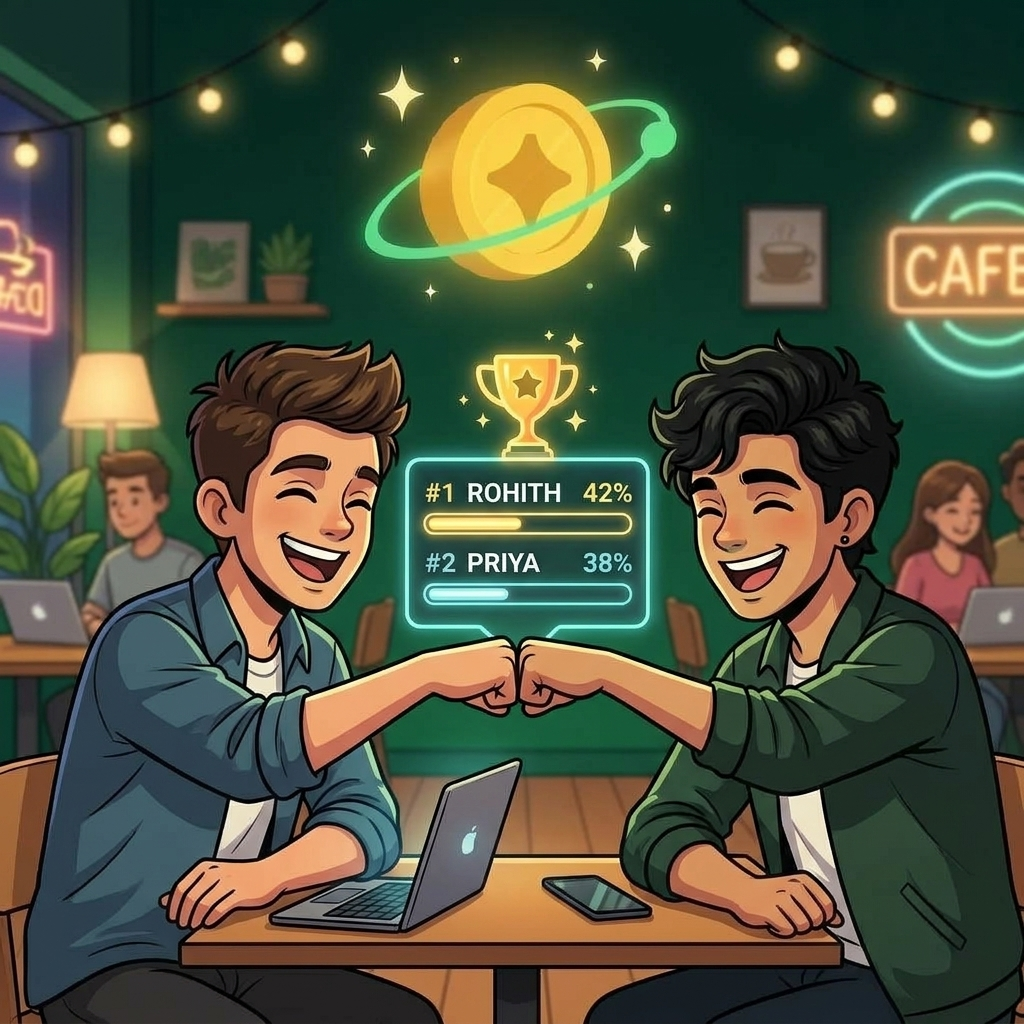
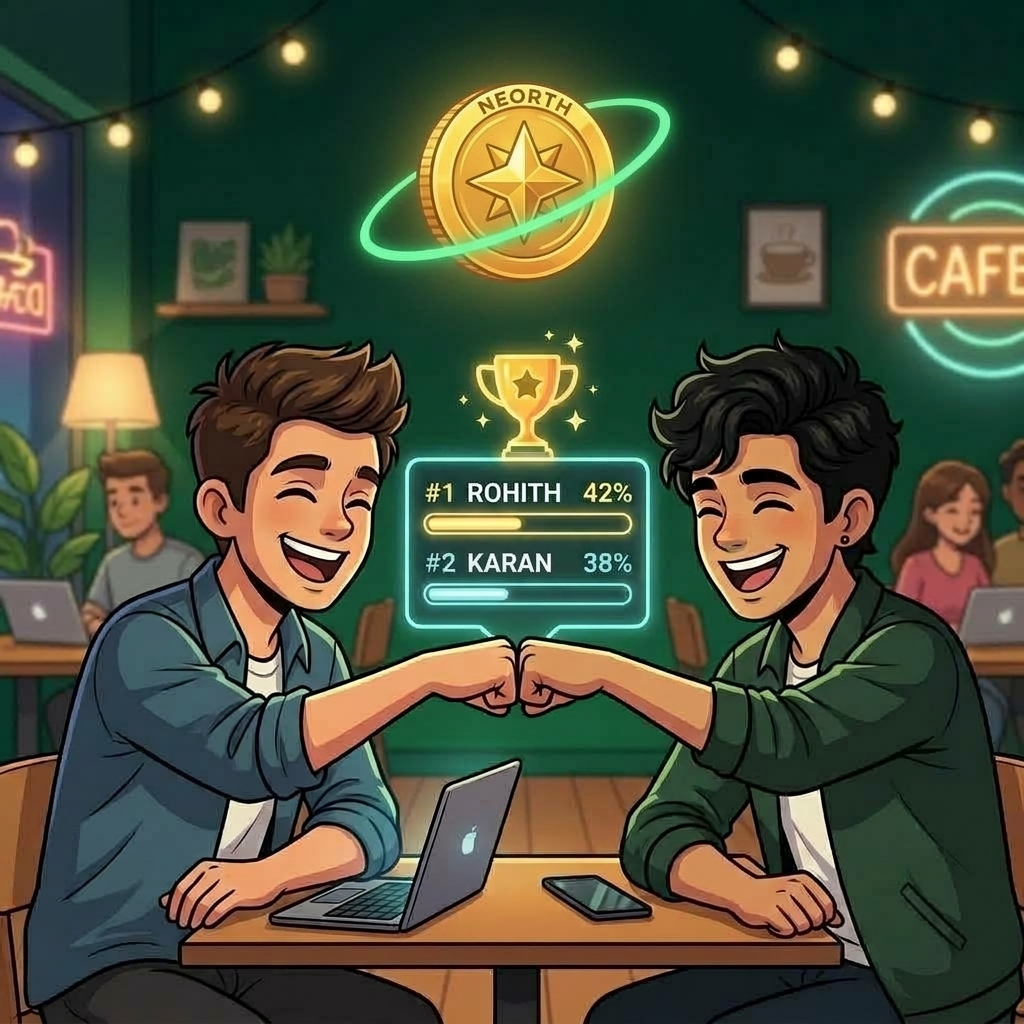
feat: replace Priya with Karan, add Payments & Merits tab, and simplify 4 pillars to 1 title and 1 subtitle

Changed region(s): [[0.3438, 0.0312, 0.6875, 0.3125], [0.4375, 0.5312, 0.5625, 0.5625]]

diff --git a/src/components/AppSimulator.jsx b/src/components/AppSimulator.jsx
@@ -2,12 +2,12 @@ import React, { useState } from 'react';
 import confetti from 'canvas-confetti';
 import { 
   TrendingUp, ShieldCheck, Flame, Users, CheckCircle2, 
-  Sparkles, Check, AlertCircle, ArrowUpRight, Trophy, Camera, Heart, MessageCircle, ArrowRight
+  Sparkles, Check, AlertCircle, ArrowUpRight, Trophy, Camera, Heart, MessageCircle, ArrowRight, Coins, Lock, Unlock
 } from 'lucide-react';
 import NeorthLogo from './NeorthLogo';
 
 export function AppSimulator({ onOpenWaitlist }) {
-  const [activeTab, setActiveTab] = useState('networth'); // networth, rituals, goals, leaderboard, proofs
+  const [activeTab, setActiveTab] = useState('networth'); // networth, rituals, goals, leaderboard, proofs, payments
 
   // Bank Aggregator Sync State
   const [syncedBanks, setSyncedBanks] = useState({
@@ -69,6 +69,9 @@ export function AppSimulator({ onOpenWaitlist }) {
   const [cheerCount, setCheerCount] = useState(24);
   const [hasCheered, setHasCheered] = useState(false);
 
+  // Payments & Merits Conversion State
+  const [meritsConverted, setMeritsConverted] = useState(false);
+
   const handleCheer = () => {
     if (!hasCheered) {
       setCheerCount((c) => c + 1);
@@ -129,7 +132,7 @@ export function AppSimulator({ onOpenWaitlist }) {
       title: 'Compete on % Completed — Not Balance',
       tagline: 'Inner circle friendly rivalry where daily consistency and % completion climb to #1.',
       statLabel: 'Bangalore Founders Circle',
-      statValue: '#1 Rohith (42%) vs #2 Priya (38%)',
+      statValue: '#1 Rohith (42%) vs #2 Karan (38%)',
       statusPill: 'Fair Playing Field for All',
     },
     proofs: {
@@ -141,6 +144,16 @@ export function AppSimulator({ onOpenWaitlist }) {
       statLabel: 'Milestone Verified & Posted',
       statValue: '40% of 1 Crore Achieved 🏆',
       statusPill: 'Car Keys in Hand • Group Cheers',
+    },
+    payments: {
+      image: '/anim-proof.jpg',
+      badge: '6. ACCOUNTABILITY & MERITS',
+      badgeColor: 'gold',
+      title: 'Pay to Stay Accountable • Succeed to Convert',
+      tagline: 'You set your goals and pay a subscription while working toward them. The faster you achieve your goals, the better. Once achieved, 100% of your subscription money converts into Merits!',
+      statLabel: 'Accountability Conversion Vault',
+      statValue: meritsConverted ? '11,988 Merits Active 🏆' : '₹11,988 In Vault (Pending Goal)',
+      statusPill: meritsConverted ? '100% Value Returned' : 'Active Goal Conversion',
     },
   };
 
@@ -159,7 +172,7 @@ export function AppSimulator({ onOpenWaitlist }) {
           Inside <span className="gradient-text-emerald">NEORTH</span>
         </h2>
         <p className="text-[var(--text-secondary)] max-w-2xl mx-auto text-xs sm:text-sm px-2">
-          Toggle each screen to experience daily wealth building, bank-synced goals, and healthy inner-circle competition.
+          Toggle each screen to experience daily wealth building, bank-synced goals, healthy competition, and accountability subscriptions that convert into Merits.
         </p>
       </div>
 
@@ -226,6 +239,18 @@ export function AppSimulator({ onOpenWaitlist }) {
           >
             <Camera size={14} />
             <span>5. Milestone Proofs</span>
+          </button>
+
+          <button
+            onClick={() => setActiveTab('payments')}
+            className={`flex items-center gap-1.5 px-3 py-1.5 sm:px-4 sm:py-2 rounded-full text-[11px] sm:text-xs md:text-sm font-semibold whitespace-nowrap transition-all ${
+              activeTab === 'payments'
+                ? 'bg-gradient-to-r from-amber-400 to-[var(--gold-primary)] text-black font-bold shadow-md shadow-amber-500/20'
+                : 'bg-[rgba(16,45,32,0.5)] text-[var(--text-secondary)] hover:text-white'
+            }`}
+          >
+            <Coins size={14} />
+            <span>6. Payments &amp; Merits</span>
           </button>
         </div>
 
@@ -497,9 +522,9 @@ export function AppSimulator({ onOpenWaitlist }) {
                   <div className="p-2 bg-black/40 rounded-xl border border-emerald-500/40 flex items-center justify-between">
                     <div className="flex items-center gap-2">
                       <div className="w-6 h-6 rounded-full bg-emerald-500/20 text-emerald-300 font-bold flex items-center justify-center text-[10px]">
-                        PK
+                        KM
                       </div>
-                      <div className="text-xs font-bold text-white">Priya K. • ₹25L Target</div>
+                      <div className="text-xs font-bold text-white">Karan M. • ₹25L Target</div>
                     </div>
                     <span className="px-2 py-0.5 rounded-full text-[9px] font-bold bg-emerald-500/20 text-[var(--emerald-glow)] border border-emerald-500/40 flex items-center gap-0.5">
                       <Check size={10} /> Verified (GREEN)
@@ -529,6 +554,7 @@ export function AppSimulator({ onOpenWaitlist }) {
                   <span className="text-[var(--gold-glow)]">Ranked by % Completed</span>
                 </div>
 
+                {/* #1 Rohith */}
                 <div className="p-2.5 bg-gradient-to-r from-emerald-950/70 to-black rounded-xl border-2 border-[var(--emerald-glow)]">
                   <div className="flex items-center justify-between mb-1">
                     <div className="flex items-center gap-2">
@@ -559,13 +585,14 @@ export function AppSimulator({ onOpenWaitlist }) {
                   </div>
                 </div>
 
+                {/* #2 Karan (Updated with guy's name) */}
                 <div className="p-2 bg-black/40 rounded-xl border border-gray-800">
                   <div className="flex items-center justify-between mb-1">
                     <div className="flex items-center gap-2">
                       <div className="w-5 h-5 rounded-full bg-gray-800 text-gray-300 font-bold flex items-center justify-center text-[9px]">
                         #2
                       </div>
-                      <div className="text-xs font-bold text-white">Priya K. (₹50L Goal)</div>
+                      <div className="text-xs font-bold text-white">Karan M. (₹50L Goal)</div>
                     </div>
                     <div className="text-xs font-bold text-white font-mono">38%</div>
                   </div>
@@ -574,6 +601,7 @@ export function AppSimulator({ onOpenWaitlist }) {
                   </div>
                 </div>
 
+                {/* #3 Arjun */}
                 <div className="p-2 bg-black/40 rounded-xl border border-gray-800">
                   <div className="flex items-center justify-between mb-1">
                     <div className="flex items-center gap-2">
@@ -589,6 +617,7 @@ export function AppSimulator({ onOpenWaitlist }) {
                   </div>
                 </div>
 
+                {/* #4 Vikram */}
                 <div className="p-2 bg-black/40 rounded-xl border border-gray-800">
                   <div className="flex items-center justify-between mb-1">
                     <div className="flex items-center gap-2">
@@ -669,6 +698,94 @@ export function AppSimulator({ onOpenWaitlist }) {
               </div>
             )}
 
+            {/* TAB 6 CONTENT: PAYMENTS & ACCOUNTABILITY MERITS */}
+            {activeTab === 'payments' && (
+              <div className="space-y-2.5 animate-fadeIn">
+                {/* Active Goal Subscription Box */}
+                <div className="bg-gradient-to-br from-[#0c3324] to-[#062016] border border-[rgba(52,211,153,0.3)] rounded-xl p-3 shadow-md relative overflow-hidden">
+                  <div className="flex items-center justify-between text-[10px] text-[var(--text-secondary)] mb-1">
+                    <span className="font-semibold uppercase tracking-wider">Goal Accountability Vault</span>
+                    <span className="text-[var(--emerald-glow)] font-mono font-bold">₹999 / month</span>
+                  </div>
+
+                  <div className="text-xs sm:text-sm font-black text-white mb-0.5">
+                    Target: ₹1 Crore Wealth Fund
+                  </div>
+                  <div className="text-[10px] text-[var(--text-secondary)] mb-2">
+                    Total Deposited While Working on Goal: <strong className="text-white font-mono">₹11,988</strong> (Month 12 Active)
+                  </div>
+
+                  {/* Vault Status Box */}
+                  <div className={`p-2.5 rounded-lg border transition-all ${
+                    meritsConverted 
+                      ? 'bg-amber-500/20 border-amber-400 text-amber-200' 
+                      : 'bg-black/50 border-emerald-500/30 text-white'
+                  }`}>
+                    <div className="flex items-center justify-between text-xs font-mono font-bold mb-0.5">
+                      <span className="flex items-center gap-1.5">
+                        {meritsConverted ? <Unlock size={13} className="text-amber-300" /> : <Lock size={13} className="text-[var(--emerald-glow)]" />}
+                        {meritsConverted ? '11,988 MERITS UNLOCKED & ACTIVE' : '11,988 MERITS LOCKED IN VAULT'}
+                      </span>
+                      <span className="text-[10px] text-[var(--emerald-glow)]">{meritsConverted ? '100% Converted ✓' : 'Pending Goal'}</span>
+                    </div>
+                    <div className="text-[9px] text-[var(--text-secondary)] leading-tight">
+                      {meritsConverted 
+                        ? 'Goal Achieved! 100% of your ₹11,988 subscription money has been converted into Merits.' 
+                        : 'The faster you achieve your goals, the better. Once achieved, 100% of your subscription is converted into Merits!'}
+                    </div>
+                  </div>
+                </div>
+
+                {/* Conversion Trigger Button */}
+                <button
+                  onClick={() => {
+                    setMeritsConverted(true);
+                    confetti({ particleCount: 100, spread: 80, origin: { y: 0.6 } });
+                  }}
+                  className={`w-full text-xs py-2 px-3 rounded-xl font-bold flex items-center justify-center gap-1.5 transition-all ${
+                    meritsConverted
+                      ? 'bg-amber-400 text-black shadow-lg shadow-amber-400/20'
+                      : 'btn-primary'
+                  }`}
+                >
+                  <Sparkles size={13} />
+                  <span>{meritsConverted ? '✓ 11,988 Merits Converted & Active in Wallet!' : 'Simulate Goal Achievement & Convert to Merits'}</span>
+                </button>
+
+                {/* Where to spend Merits */}
+                <div className="space-y-1">
+                  <div className="text-[9px] font-semibold text-[var(--text-secondary)] uppercase tracking-wider flex items-center justify-between">
+                    <span>Spend Merits Inside NEORTH:</span>
+                    <span className="text-[var(--gold-light)] font-mono">{meritsConverted ? '11,988 M Available' : 'Locked until Goal'}</span>
+                  </div>
+
+                  <div className="grid grid-cols-2 gap-1.5 text-[9px] font-mono">
+                    <div className="p-1.5 bg-black/40 rounded-lg border border-gray-800 flex items-center justify-between">
+                      <span className="text-white truncate">Bangalore Founders</span>
+                      <span className="text-[var(--gold-light)] font-bold">3,000 M</span>
+                    </div>
+                    <div className="p-1.5 bg-black/40 rounded-lg border border-gray-800 flex items-center justify-between">
+                      <span className="text-white truncate">90-Day Sprint Entry</span>
+                      <span className="text-[var(--gold-light)] font-bold">2,500 M</span>
+                    </div>
+                    <div className="p-1.5 bg-black/40 rounded-lg border border-gray-800 flex items-center justify-between">
+                      <span className="text-white truncate">VIP IRL Hangouts</span>
+                      <span className="text-[var(--gold-light)] font-bold">5,000 M</span>
+                    </div>
+                    <div className="p-1.5 bg-black/40 rounded-lg border border-gray-800 flex items-center justify-between">
+                      <span className="text-white truncate">AI Mentor Strategy</span>
+                      <span className="text-[var(--gold-light)] font-bold">1,488 M</span>
+                    </div>
+                  </div>
+                </div>
+
+                {/* Core Philosophy Quote */}
+                <div className="p-2 bg-[rgba(6,21,14,0.9)] border border-amber-500/25 rounded-xl text-[10px] text-[var(--text-secondary)] italic leading-tight">
+                  "The idea is simple: you pay to stay accountable, take daily action, and improve your life—and when you succeed, you get value back through Merits."
+                </div>
+              </div>
+            )}
+
             {/* Bottom Interactive CTA */}
             <div className="pt-2 border-t border-[rgba(52,211,153,0.15)] flex items-center justify-between mt-3">
               <span className="text-[10px] text-[var(--text-secondary)] font-mono">
@@ -735,9 +852,9 @@ export function AppSimulator({ onOpenWaitlist }) {
                 </div>
               </div>
 
-              {/* Quick Tab Switcher Dots */}
+              {/* Quick Tab Switcher Dots (Now includes all 6 tabs) */}
               <div className="flex items-center justify-center gap-1.5 pt-2 border-t border-[rgba(52,211,153,0.15)]">
-                {['networth', 'rituals', 'goals', 'leaderboard', 'proofs'].map((tabKey) => (
+                {['networth', 'rituals', 'goals', 'leaderboard', 'proofs', 'payments'].map((tabKey) => (
                   <button
                     key={tabKey}
                     onClick={() => setActiveTab(tabKey)}

diff --git a/src/components/PillarsSection.jsx b/src/components/PillarsSection.jsx
@@ -6,47 +6,27 @@ export function PillarsSection() {
   const pillars = [
     {
       icon: TrendingUp,
-      title: "1. Wealth Building",
-      tagline: "RBI Account Aggregator Engine",
-      color: "emerald",
-      points: [
-        "Consented bank sync via RBI-regulated Setu, Finvu & Anumati",
-        "Real-time consolidated Net Worth with zero manual entry",
-        "Automated 'What Changed & Why' monthly balance audits"
-      ]
-    },
-    {
-      icon: Target,
-      title: "2. Goal Execution",
-      tagline: "Target Age & Timeline Milestones",
-      color: "gold",
-      points: [
-        "Tie real-life goals to your exact target age and target year",
-        "Daily progress calculated automatically from linked bank accounts",
-        "10-day post-completion verification for authentic goal fulfillment"
-      ]
-    },
-    {
-      icon: Flame,
-      title: "3. Daily Discipline",
-      tagline: "4 Daily Rituals & Streak System",
-      color: "emerald",
-      points: [
-        "4 quick micro-habits: review money, reflect win, AI advice, circle sync",
-        "Consistency streaks that build daily financial discipline",
-        "Personalized AI mentor keeping your goals front and center"
-      ]
+      title: "1. Measurable Wealth Building",
+      subtitle: "Consented RBI account sync and verified real-time net worth tracking with zero manual spreadsheets.",
+      color: "emerald"
     },
     {
       icon: Users,
-      title: "4. Community & Competition",
-      tagline: "Leaderboards & Achievement Proofs",
-      color: "gold",
-      points: [
-        "Compete in inner groups on percentage of personal goals completed",
-        "Leaderboards reward daily consistency and improving momentum",
-        "Post milestone photos with your circle when you hit targets (e.g. 40% of ₹1 Cr)"
-      ]
+      title: "2. Healthy Competitive Groups & Communities",
+      subtitle: "Compete with inner circles on goal completion percentages, celebrating momentum rather than asset flexes.",
+      color: "gold"
+    },
+    {
+      icon: Flame,
+      title: "3. Consistency & Accountability",
+      subtitle: "Pay a subscription to stay accountable, take daily action, and convert paid fees into Merits when you succeed.",
+      color: "emerald"
+    },
+    {
+      icon: Target,
+      title: "4. Built for People Who Exponentially Want to Improve Their Lives",
+      subtitle: "Engineered for high-agency achievers who demand daily progress, verified milestones, and elevated peer standards.",
+      color: "gold"
     }
   ];
 
@@ -64,7 +44,7 @@ export function PillarsSection() {
           <span className="gradient-text-emerald">Built for Real-Life Goals.</span>
         </h2>
         <p className="text-xs sm:text-sm md:text-base text-[var(--text-secondary)] max-w-2xl mx-auto">
-          Four tightly engineered systems that turn long-term wealth ambitions into daily micro-progress and healthy peer accountability.
+          Four core principles designed to turn ambitious goals into daily execution and healthy accountability.
         </p>
       </div>
 
@@ -79,32 +59,19 @@ export function PillarsSection() {
                 isGold ? 'border-[rgba(245,158,11,0.25)] hover:border-[var(--gold-primary)]' : 'border-[rgba(52,211,153,0.25)] hover:border-[var(--emerald-glow)]'
               }`}
             >
-              <div className="flex items-center gap-3 mb-3.5">
+              <div className="flex items-start gap-3.5">
                 <div className={`p-2.5 sm:p-3 rounded-2xl flex-shrink-0 ${
                   isGold ? 'bg-amber-500/15 text-[var(--gold-light)] border border-amber-500/30' : 'bg-emerald-500/15 text-[var(--emerald-glow)] border border-emerald-500/30'
                 }`}>
                   <IconComp size={22} />
                 </div>
                 <div>
-                  <h3 className="text-base sm:text-lg font-bold text-white leading-tight">{p.title}</h3>
-                  <span className={`text-[10px] sm:text-xs font-mono font-bold uppercase tracking-wider ${
-                    isGold ? 'text-[var(--gold-light)]' : 'text-[var(--emerald-glow)]'
-                  }`}>
-                    {p.tagline}
-                  </span>
+                  <h3 className="text-base sm:text-lg font-bold text-white leading-snug mb-1.5">{p.title}</h3>
+                  <p className="text-xs sm:text-sm text-[var(--text-secondary)] leading-relaxed">
+                    {p.subtitle}
+                  </p>
                 </div>
               </div>
-
-              <ul className="space-y-2 text-xs sm:text-sm text-[var(--text-secondary)]">
-                {p.points.map((pt, i) => (
-                  <li key={i} className="flex items-start gap-2">
-                    <span className={`w-1.5 h-1.5 rounded-full mt-1.5 flex-shrink-0 ${
-                      isGold ? 'bg-[var(--gold-primary)]' : 'bg-[var(--emerald-glow)]'
-                    }`} />
-                    <span className="leading-snug">{pt}</span>
-                  </li>
-                ))}
-              </ul>
             </div>
           );
         })}
